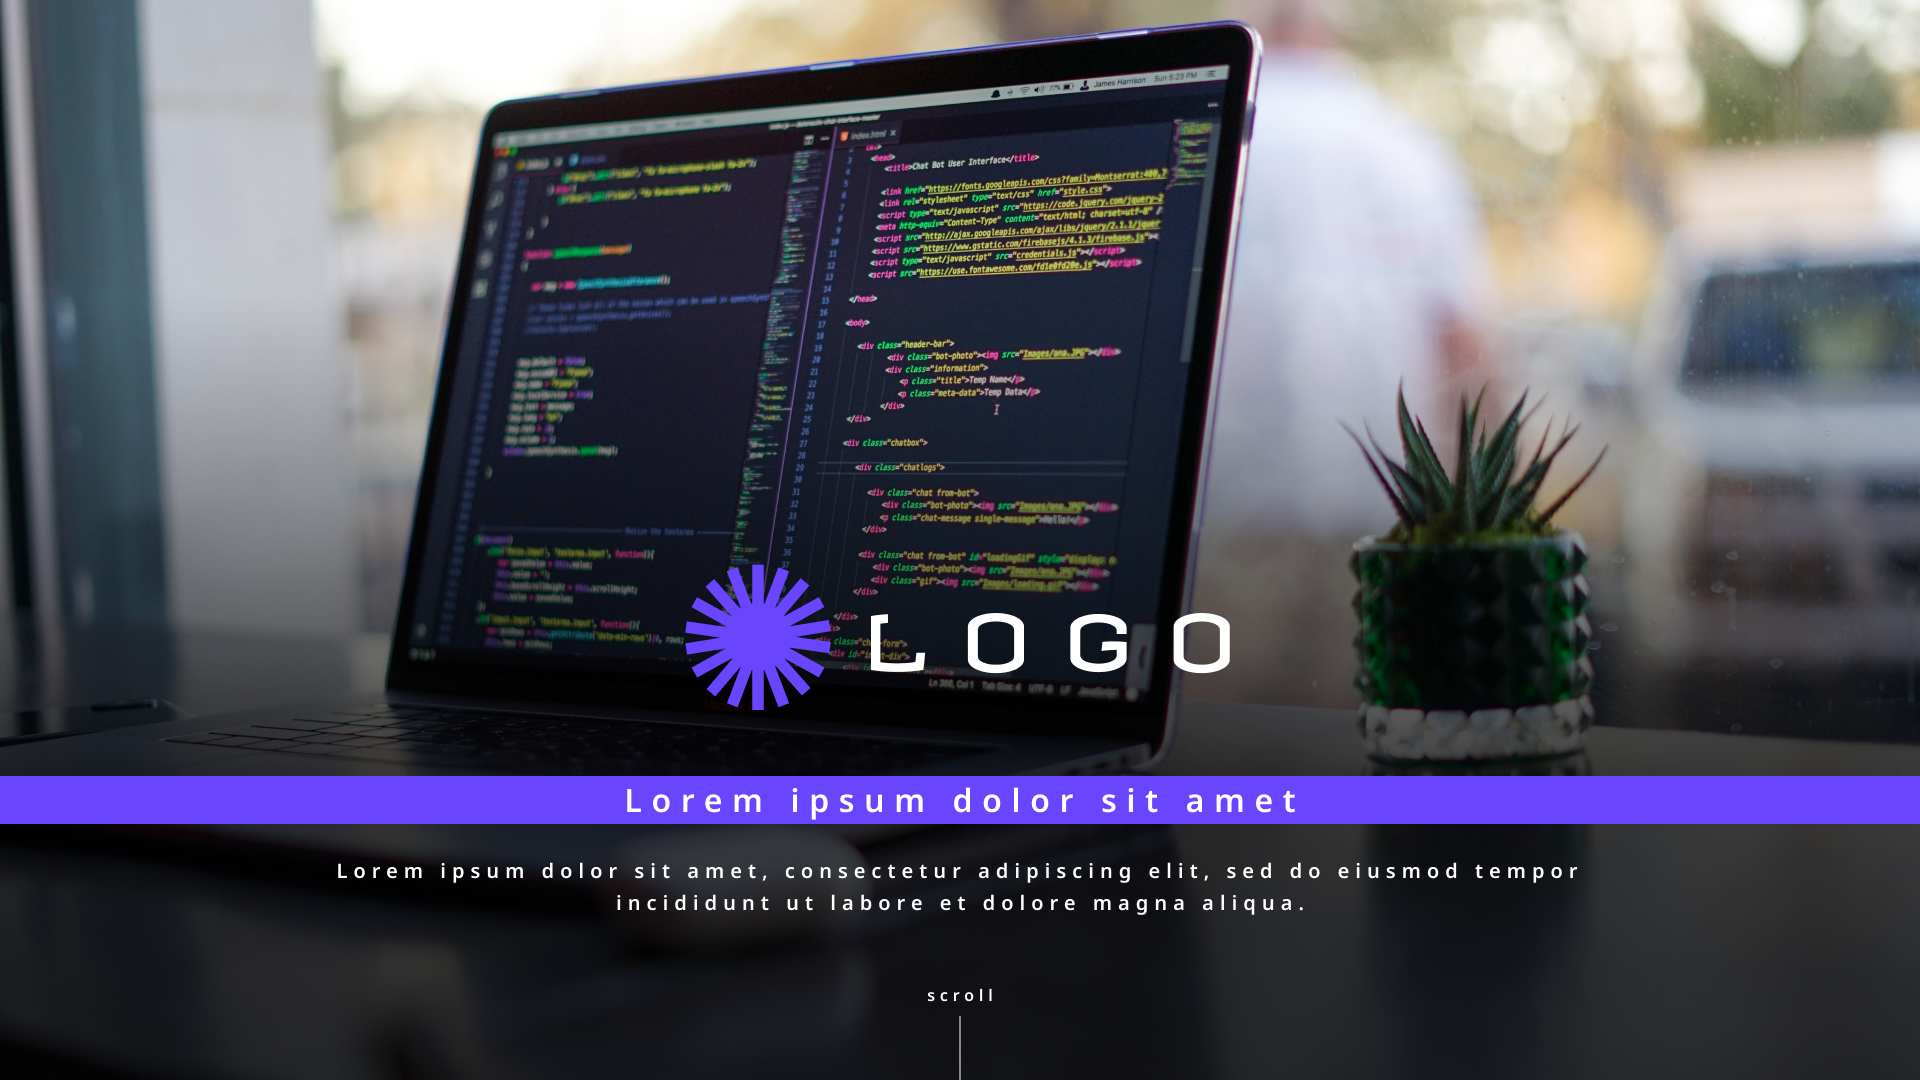
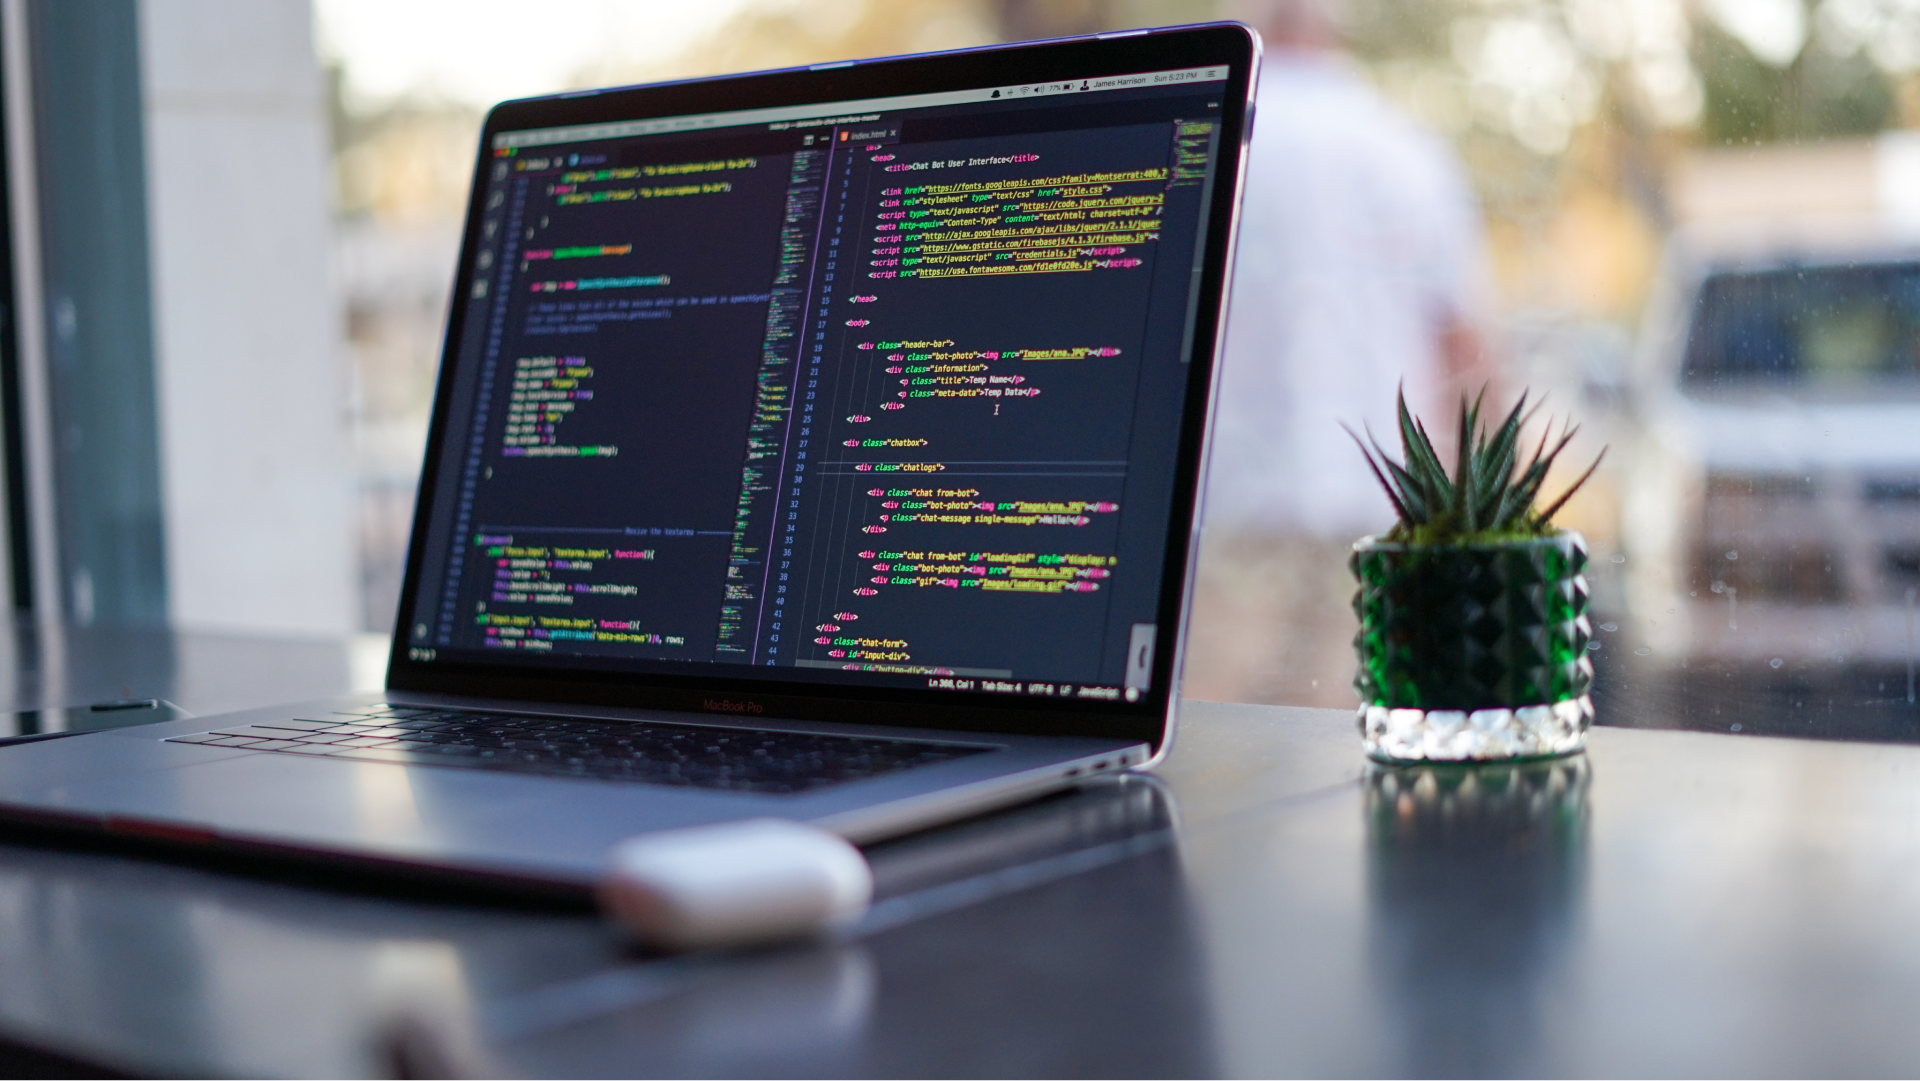
LP-1: Implemented carousel hero section

diff --git a/src/components/Carousel/Carousel.js b/src/components/Carousel/Carousel.js
@@ -1,0 +1,72 @@
+import React, { useEffect, useState } from "react";
+import "./Carousel.scss";
+import HeroImage from "../../assets/Images/hero-e.png";
+import HeroImage2 from "../../assets/Images/hero-e-2.png";
+import HeroImage3 from "../../assets/Images/hero-e-3.png";
+import Logo from "../../assets/Logo";
+import Vector from "../../assets/Vector";
+const Carousel = () => {
+  const images = [HeroImage, HeroImage2, HeroImage3];
+
+  const [currentImage, setCurrentImage] = useState(0);
+
+  const nextImage = () => {
+    setCurrentImage((prevImage) => (prevImage + 1) % images.length);
+  };
+
+  const prevImage = () => {
+    setCurrentImage(
+      (prevImage) => (prevImage - 1 + images.length) % images.length
+    );
+  };
+
+  useEffect(() => {
+    const interval = setInterval(nextImage, 4000);
+
+    return () => clearInterval(interval);
+  });
+
+  return (
+    <div className="carousel">
+      <div
+        className="hero-image"
+        style={{
+          background: `linear-gradient(
+            rgba(0, 0, 0, 0.00) 26.56%,
+            rgba(0, 0, 0, 0.75) 71.35%
+          ),
+          url(${images[currentImage]}),
+          lightgray 50% / cover no-repeat`,
+        }}
+      />
+
+      <button className="arrows left-arrow" onClick={prevImage}>
+        left
+      </button>
+      <button className="arrows right-arrow" onClick={nextImage}>
+        right
+      </button>
+
+      <div className="bottom-body">
+        <div className="logo-body">
+          <Logo width="9rem" height="9rem" />
+          <span>LOGO</span>
+        </div>
+        <div className="text-lorem">
+          <p className="blue-title">Lorem ipsum dolor sit amet </p>
+          <p className="normal-text">
+            Lorem ipsum dolor sit amet, consectetur adipiscing elit, sed do
+            eiusmod tempor incididunt ut labore et dolore magna aliqua.
+          </p>
+        </div>
+
+        <div className="scroll-text">
+          <span>scroll</span>
+          <Vector />
+        </div>
+      </div>
+    </div>
+  );
+};
+
+export default Carousel;

diff --git a/src/components/Carousel/Carousel.css b/src/components/Carousel/Carousel.css
@@ -1,0 +1,79 @@
+.carousel {
+  display: flex;
+  flex-direction: column;
+  position: relative;
+  height: 67.5rem;
+  align-items: center;
+  justify-content: flex-end;
+  gap: 4rem; }
+  .carousel .hero-image {
+    position: absolute;
+    width: 100%;
+    height: 100%;
+    z-index: -1; }
+  .carousel .arrows {
+    position: absolute;
+    top: 50%;
+    transform: translateY(-50%);
+    border: none;
+    cursor: pointer;
+    font-size: 24px; }
+    .carousel .arrows.left-arrow {
+      left: 10px; }
+    .carousel .arrows.right-arrow {
+      right: 10px; }
+  .carousel .bottom-body {
+    display: flex;
+    flex-direction: column;
+    width: 100%;
+    gap: 4rem; }
+    .carousel .bottom-body .logo-body {
+      display: flex;
+      align-self: center;
+      align-items: center;
+      text-align: center;
+      font-family: Revalia;
+      font-size: 4.875rem;
+      line-height: 171%;
+      letter-spacing: 2.34rem;
+      color: #fff;
+      width: 34.34763rem;
+      gap: 1rem; }
+    .carousel .bottom-body .blue-title {
+      background: #6a45ff;
+      color: #fff;
+      height: 3rem;
+      text-align: center;
+      font-family: Noto Sans;
+      font-size: 2rem;
+      font-style: normal;
+      font-weight: 600;
+      line-height: 160%;
+      letter-spacing: 0.6rem; }
+    .carousel .bottom-body .normal-text {
+      align-self: center;
+      color: #fff;
+      text-align: center;
+      font-family: Noto Sans;
+      font-size: 1.25rem;
+      font-style: normal;
+      font-weight: 600;
+      line-height: 160%;
+      /* 2rem */
+      letter-spacing: 0.375rem;
+      padding: 0 14rem; }
+    .carousel .bottom-body .scroll-text {
+      align-self: center;
+      display: flex;
+      flex-direction: column;
+      align-items: center;
+      justify-content: center;
+      color: #fff;
+      text-align: center;
+      font-family: Noto Sans;
+      font-size: 1rem;
+      font-weight: 600;
+      line-height: 160%;
+      /* 1.6rem */
+      letter-spacing: 0.3rem;
+      gap: 0.5rem; }

diff --git a/src/components/Carousel/Carousel.scss b/src/components/Carousel/Carousel.scss
@@ -1,0 +1,96 @@
+.carousel {
+  display: flex;
+  flex-direction: column;
+  position: relative;
+  height: 67.5rem;
+  align-items: center;
+  justify-content: flex-end;
+  gap: 4rem;
+
+  .hero-image {
+    position: absolute;
+    width: 100%;
+    height: 100%;
+    z-index: -1;
+  }
+
+  .arrows {
+    position: absolute;
+    top: 50%;
+    transform: translateY(-50%);
+    border: none;
+    cursor: pointer;
+    font-size: 24px;
+
+    &.left-arrow {
+      left: 10px;
+    }
+
+    &.right-arrow {
+      right: 10px;
+    }
+  }
+
+  .bottom-body {
+    display: flex;
+    flex-direction: column;
+    width: 100%;
+    gap: 4rem;
+
+    .logo-body {
+      display: flex;
+      align-self: center;
+      align-items: center;
+      text-align: center;
+      font-family: Revalia;
+      font-size: 4.875rem;
+      line-height: 171%;
+      letter-spacing: 2.34rem;
+      color: #fff;
+      width: 34.34763rem;
+      gap: 1rem;
+    }
+
+    .blue-title {
+      background: #6a45ff;
+      color: #fff;
+      height: 3rem;
+      text-align: center;
+      font-family: Noto Sans;
+      font-size: 2rem;
+      font-style: normal;
+      font-weight: 600;
+      line-height: 160%;
+      letter-spacing: 0.6rem;
+    }
+
+    .normal-text {
+      align-self: center;
+      color: #fff;
+      text-align: center;
+      font-family: Noto Sans;
+      font-size: 1.25rem;
+      font-style: normal;
+      font-weight: 600;
+      line-height: 160%; /* 2rem */
+      letter-spacing: 0.375rem;
+      padding: 0 14rem;
+    }
+
+    .scroll-text {
+      align-self: center;
+      display: flex;
+      flex-direction: column;
+      align-items: center;
+      justify-content: center;
+      color: #fff;
+      text-align: center;
+      font-family: Noto Sans;
+      font-size: 1rem;
+      font-weight: 600;
+      line-height: 160%; /* 1.6rem */
+      letter-spacing: 0.3rem;
+      gap: 0.5rem;
+    }
+  }
+}

diff --git a/src/components/Header/Header.css b/src/components/Header/Header.css
@@ -16,8 +16,7 @@
     gap: 7.5rem;
     font-weight: 600;
     letter-spacing: 0.3rem;
-    line-height: 160%;
-    box-shadow: 0px 0px 4px 0px #fff; }
+    line-height: 160%; }
   .header .logo {
     display: flex;
     align-items: center;
@@ -30,3 +29,5 @@
     line-height: 160%; }
     .header .logo .logo-svg {
       flex-shrink: 0; }
+  .header .logo-text {
+    padding-left: 0.5rem; }

diff --git a/src/assets/Vector.js b/src/assets/Vector.js
@@ -1,0 +1,17 @@
+import React from "react";
+
+const Vector = () => {
+  return (
+    <svg
+      xmlns="http://www.w3.org/2000/svg"
+      width="2"
+      height="64"
+      viewBox="0 0 2 64"
+      fill="none"
+    >
+      <path d="M1 0V64" stroke="white" />
+    </svg>
+  );
+};
+
+export default Vector;

diff --git a/src/components/Header/Header.scss b/src/components/Header/Header.scss
@@ -18,7 +18,7 @@
     font-weight: 600;
     letter-spacing: 0.3rem;
     line-height: 160%;
-    box-shadow: 0px 0px 4px 0px #fff;
+    // box-shadow: 0px 0px 4px 0px #fff;
   }
 
   .logo {
@@ -34,5 +34,8 @@
     .logo-svg {
       flex-shrink: 0;
     }
+  }
+  .logo-text {
+    padding-left: 0.5rem;
   }
 }

diff --git a/src/components/Header/Header.js b/src/components/Header/Header.js
@@ -6,7 +6,7 @@ const Header = () => {
     <div className="header">
       <div className="logo">
         <Logo width="2.75rem" height="2.75rem" />
-        <span>LOGO</span>
+        <span className="logo-text">LOGO</span>
       </div>
 
       <div className="navigators">

diff --git a/src/App.js b/src/App.js
@@ -1,10 +1,13 @@
 import "./App.css";
 import Header from "./components/Header/Header";
+import Carousel from "./components/Carousel/Carousel";
 
 function App() {
   return (
     <div className="App">
       <Header />
+
+      <Carousel />
     </div>
   );
 }

diff --git a/src/App.css b/src/App.css
@@ -1,5 +1,7 @@
 .App {
-  position: relative; }
+  position: relative;
+  width: 100%;
+  height: 100%; }
 
 * {
   box-sizing: border-box; }

diff --git a/src/index.css b/src/index.css
@@ -1,3 +1,5 @@
 body {
   margin: 0;
-  padding: 0; }
+  padding: 0;
+  width: 100%;
+  height: 100%; }

diff --git a/src/App.scss b/src/App.scss
@@ -1,5 +1,7 @@
 .App {
   position: relative;
+  width: 100%;
+  height: 100%;
 }
 
 * {

diff --git a/src/index.scss b/src/index.scss
@@ -1,4 +1,6 @@
 body {
   margin: 0;
   padding: 0;
+  width: 100%;
+  height: 100%;
 }
